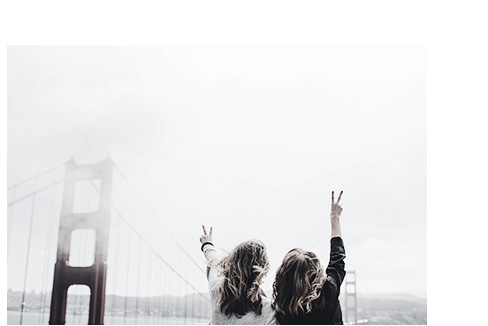
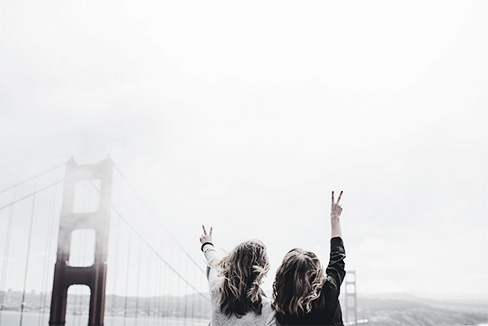
new

Changed region(s): [[0.0, 0.7055, 1.0, 1.0], [0.0, 0.5215, 0.0307, 0.6748]]

diff --git a/html-css/module-3/index.html b/html-css/module-3/index.html
@@ -27,7 +27,7 @@
     <div class="left-post">
       <ul class="left-item">
         <li class="left-article">
-          <img src="./img/image1.jpg" alt="photo" class="left-img" width="420" height="280" />
+          <img src="./img/image1.jpg" alt="photo" class="left-img" width="420px" height="280px" />
           <p class="lifestyle">Lifestyle</p>
           <h2 class="left-head">More than just a music festival</h2>
           <p class="left-text">
@@ -37,7 +37,7 @@
           </p>
         </li>
         <li class="left-article">
-          <img src="./img/Image3.jpg" alt="photo" class="left-img" width="420" height="280" />
+          <img src="./img/Image3.jpg" alt="photo" class="left-img" width="420px" height="280px" />
           <p class="photodiary">Photodiary</p>
           <h2 class="left-head">American dream</h2>
           <p class="left-text">
@@ -47,7 +47,7 @@
           </p>
         </li>
         <li class="left-article">
-          <img src="./img/image5.jpg" alt="photo" class="left-img" width="420" height="280" />
+          <img src="./img/image5.jpg" alt="photo" class="left-img" width="420px" height="280px" />
           <p class="lifestyle">Lifestyle</p>
           <h2 class="left-head">Top 10 song for running</h2>
           <p class="left-text">
@@ -61,7 +61,7 @@
     <div class="right-post">
       <ul class="right-item">
         <li class="right-article">
-          <img src="./img/image2.jpg" alt="photo" class="right-img" width="420" height="280" />
+          <img src="./img/image2.jpg" alt="photo" class="right-img" width="420px" height="280px" />
           <p class="lifestyle">Lifestyle</p>
           <h2 class="right-head">Life tastes better with coffee</h2>
           <p class="right-text">
@@ -72,7 +72,7 @@
           </p>
         </li>
         <li class="right-article">
-          <img src="./img/image4.jpg" alt="photo" class="right-img" width="420" height="280" />
+          <img src="./img/image4.jpg" alt="photo" class="right-img" width="420px" height="280px" />
           <p class="photodiary">Photodiary</p>
           <h2 class="right-head">A day exploring the Alps</h2>
           <p class="right-text">
@@ -83,7 +83,7 @@
           </p>
         </li>
         <li class="right-article">
-          <img src="./img/image6.jpg" alt="photo" class="right-img" width="420" height="280" />
+          <img src="./img/image6.jpg" alt="photo" class="right-img" width="420px" height="280px" />
           <p class="lifestyle">Lifestyle</p>
           <h2 class="right-head">Cold winter days</h2>
           <p class="right-text">

diff --git a/html-css/module-3/css/style.css b/html-css/module-3/css/style.css
@@ -1,68 +1,7 @@
 * {
-  margin: 0 auto;
-  padding: 0;
+  margin: 0px auto;
+  padding: 0 px;
+  box-sizing: border-box
 }
-.wrapper
-{margin: 0 auto;
- box-sizing: border-box
-}
-.main-wrapper
-{
-  box-sizing: border-box;
-  width: 900;
-  margin: 0 auto
-}
-.list-item
-{
-  display: inline-block;
-  margin: 0 20px 0 0;
- }
- .nav-link
- {
-   text-transform: uppercase;
-   text-decoration: none;
-   display: inline-block;
-   margin: 0px 40px 0px 40px
-   
- }
-.nav-list
-{
-padding: 77px;
-box-sizing: border-box;
-text-align: center;
-}
-.left-article, .right-article
-{ 
-  display: inline-block;
-  width: 420;
-  height: auto;
-  margin: 0 0 0 150;
-  list-style: none;
-}
-.left-text, .right-text
-{ display: inline-block;
-  width: 420;
-  margin: 0 auto;
-  
-}
-.lifestyle, .photodiary 
-{
-  display: inline-block;
-  width: 420;
-  text-align: left
-}
-.right-item, .left-item
-{
-  display: inline-block;
-  width: 420;
-  margin: 0 auto;
-  }
-.left-post
-{
-  display: inline-block;
-  margin: 0 auto;
-}
-.left-img
-{
-margin: 0 0 0 150;
-}
+
+
